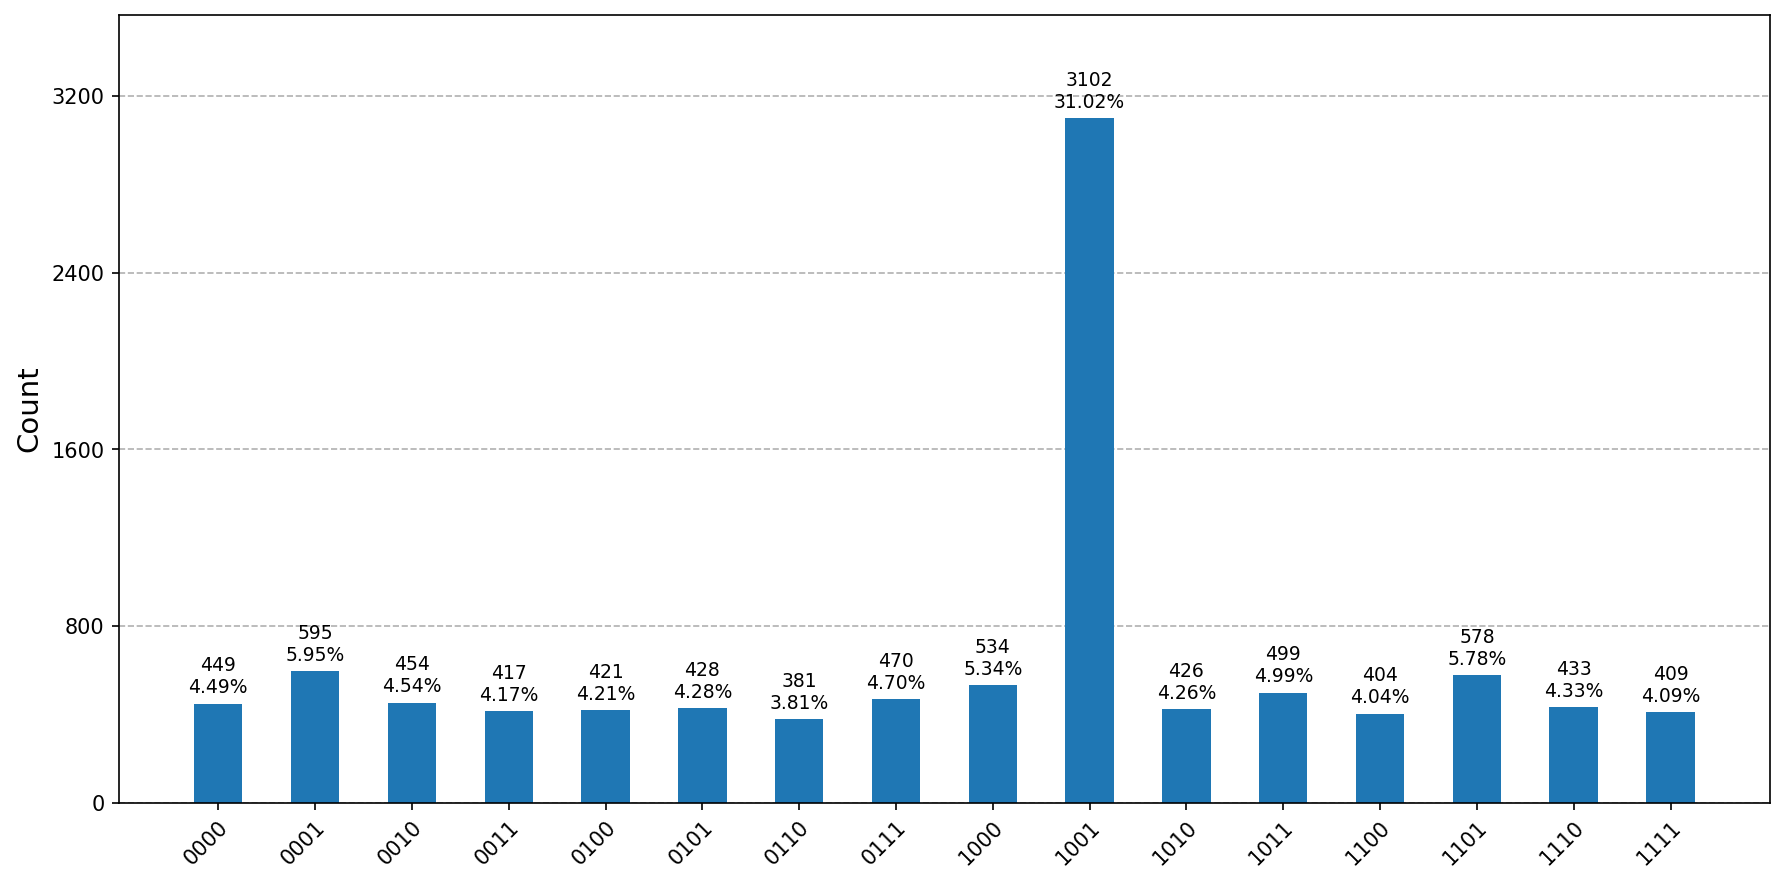
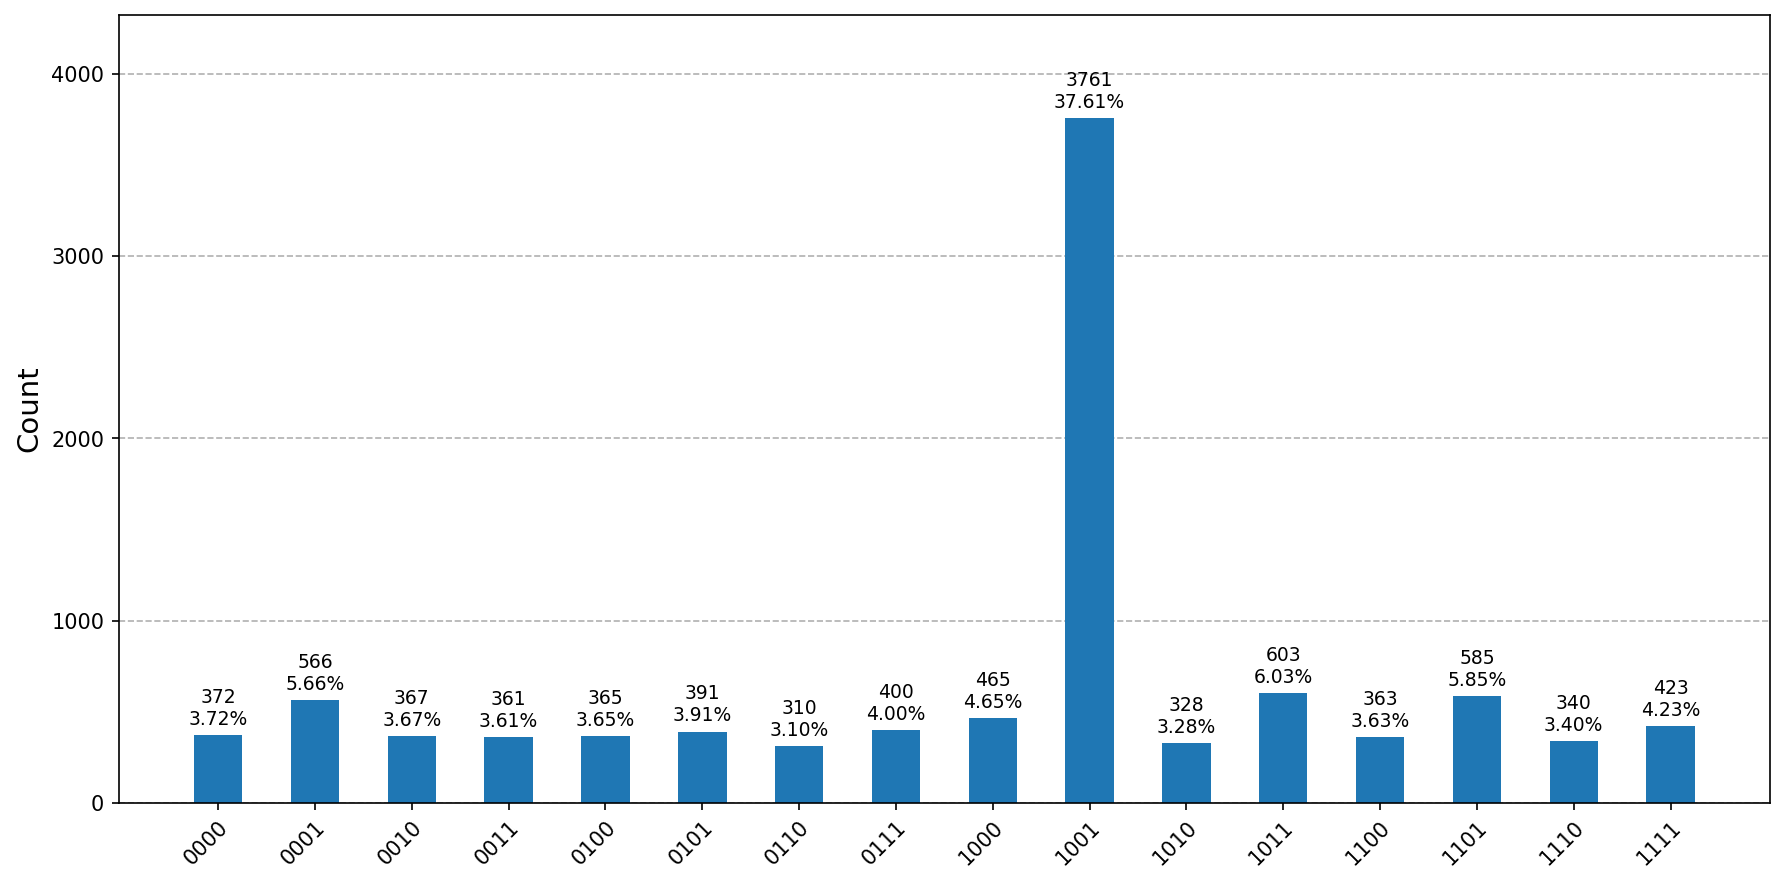
improve quantum lights out logging & find good seed & better results

diff --git a/Code/lights_out/quantum/main.py b/Code/lights_out/quantum/main.py
@@ -1,7 +1,8 @@
 import math
 import os
+import random
 import numpy as np
-from qiskit import ClassicalRegister, QuantumCircuit, QuantumRegister, transpile
+from qiskit import ClassicalRegister, QuantumCircuit, QuantumRegister
 from qiskit.primitives import StatevectorSampler
 import matplotlib.pyplot as plt
 from qiskit.visualization import plot_histogram
@@ -17,6 +18,59 @@ from qiskit.transpiler.passes import (
 )
 from qiskit.circuit.library import XGate
 from dotenv import load_dotenv
+
+
+def find_optimal_transpiler_seed(
+    qc,
+    backend,
+    optimization_level=3,
+    num_trials=30,
+    seed_space=10_000,
+    verbose=True,
+):
+    assert backend is not None
+    assert qc is not None
+    assert 0 <= optimization_level <= 3
+    assert num_trials >= 1
+    assert seed_space >= 2
+
+    rng = random.Random()
+    seeds = rng.sample(range(seed_space), k=min(num_trials, seed_space))
+
+    best_seed = None
+    best_metrics = None
+    best_score = None
+
+    tried_metrics = []
+
+    for idx, seed in enumerate(seeds, start=1):
+        pm = generate_preset_pass_manager(
+            optimization_level=optimization_level,
+            backend=backend,
+            seed_transpiler=seed,
+        )
+        transpiled = pm.run(qc)
+
+        m = {"seed": seed, "depth": transpiled.depth(), "size": transpiled.size()}
+        tried_metrics.append(m)
+
+        s = (m["depth"], m["size"])
+        if best_score is None or s < best_score:
+            best_score = s
+            best_seed = seed
+            best_metrics = {"depth": m["depth"], "size": m["size"]}
+
+            if verbose:
+                print(
+                    f"[seed search] new best @ trial {idx}/{len(seeds)}: "
+                    f"seed={best_seed}, depth={best_metrics['depth']}, size={best_metrics['size']}"
+                )
+        elif verbose and (idx == 1 or idx % 10 == 0 or idx == len(seeds)):
+            print(
+                f"[seed search] trial {idx}/{len(seeds)} done; best depth={best_metrics['depth']} size={best_metrics['size']}"
+            )
+
+    return best_seed
 
 
 def init_ibm_credentials():
@@ -67,7 +121,14 @@ def mcx(qc, control_qubits, target_qubits, anncilla_qubits):
     qc.rccx(control_qubits[0], control_qubits[1], anncilla_qubits[i])
 
 
-def add_oracle(qc, var_qubits, temp_qubits, output_qubit, conditions, ancilla_qubits):
+def add_oracle(
+    qc,
+    var_qubits,
+    temp_qubits,
+    output_qubit,
+    conditions,
+    ancilla_qubits,
+):
     layers = {}
     for vars, temp in conditions:
         for var in vars:
@@ -84,7 +145,11 @@ def add_oracle(qc, var_qubits, temp_qubits, output_qubit, conditions, ancilla_qu
         for var, temp in layers[offset]:
             qc.cx(var_qubits[var], temp_qubits[temp])
 
-    mcx(qc, temp_qubits, output_qubit, ancilla_qubits)
+    # Use mcx synthesis if ancilla bits are available
+    if ancilla_qubits:
+        mcx(qc, temp_qubits, output_qubit, ancilla_qubits)
+    else:
+        qc.mcx(temp_qubits, output_qubit)
 
     # Uncompute
     for offset in sorted_offsets[::-1]:
@@ -102,21 +167,27 @@ def add_grover_diffusion(qc, var_qubits):
     qc.h(var_qubits)
 
 
-def create_lights_out_circuit(size, initial_state, num_iterations=3):
+def create_lights_out_circuit(
+    size, initial_state, num_iterations=3, synthesize_mcx=True
+):
     n = size * size
 
     var_qubits = QuantumRegister(n, name="v")
     temp_qubits = QuantumRegister(n, name="t")
-
-    # Required for mcx
-    ancilla_qubits = QuantumRegister(n - 2, name="anc")
 
     output_qubit = QuantumRegister(1, name="out")
     cbits = ClassicalRegister(n, name="cbits")
 
     conditions = generate_conditions(size)
 
-    qc = QuantumCircuit(var_qubits, temp_qubits, ancilla_qubits, output_qubit, cbits)
+    if synthesize_mcx:
+        ancilla_qubits = QuantumRegister(n - 2, name="anc")
+        qc = QuantumCircuit(
+            var_qubits, temp_qubits, ancilla_qubits, output_qubit, cbits
+        )
+    else:
+        ancilla_qubits = None
+        qc = QuantumCircuit(var_qubits, temp_qubits, output_qubit, cbits)
 
     # Set initial state based on which lights are off (i.e. 0)
     # Additionally, reverse the bits
@@ -132,7 +203,12 @@ def create_lights_out_circuit(size, initial_state, num_iterations=3):
     # Grover's algorithmn
     for _ in range(num_iterations):
         add_oracle(
-            qc, var_qubits, temp_qubits, output_qubit, conditions, ancilla_qubits
+            qc,
+            var_qubits,
+            temp_qubits,
+            output_qubit[0],
+            conditions,
+            ancilla_qubits,
         )
         add_grover_diffusion(qc, var_qubits)
 
@@ -141,7 +217,7 @@ def create_lights_out_circuit(size, initial_state, num_iterations=3):
     return qc, var_qubits, cbits
 
 
-def create_circuit_from_matrix(initial_state_matrix):
+def create_circuit_from_matrix(initial_state_matrix, synthesize_mcx=True):
     state_array = np.array(initial_state_matrix)
 
     size = state_array.shape[0]
@@ -166,7 +242,7 @@ def create_circuit_from_matrix(initial_state_matrix):
     num_iterations = math.floor(math.pi / 4 * math.sqrt(2 ** (size**2) / num_solutions))
 
     qc, var_qubits, cbits = create_lights_out_circuit(
-        size, initial_state, num_iterations
+        size, initial_state, num_iterations, synthesize_mcx=synthesize_mcx
     )
 
     total_qubits = qc.num_qubits
@@ -176,6 +252,7 @@ def create_circuit_from_matrix(initial_state_matrix):
     print(f"Total qubits required: {total_qubits}")
     print(f"Total gates in circuit: {num_gates}")
     print(f"Grover iterations: {num_iterations}")
+    print(f"Depth of circuit: {qc.depth()}")
 
     return qc, var_qubits, cbits, size
 
@@ -188,11 +265,15 @@ def run_on_perfect_simulator(qc, shots=10_000):
     return counts
 
 
-def run_on_ibm_simulator(qc, shots=10_000):
+def run_on_ibm_simulator(qc, shots=10_000, seed_transpiler=None):
     backend = FakeMarrakesh()
 
-    transpiled = transpile(qc, backend=backend, optimization_level=3)
-    print("Transpiled")
+    pm = generate_preset_pass_manager(
+        optimization_level=3, backend=backend, seed_transpiler=seed_transpiler
+    )
+    transpiled = pm.run(qc)
+    print(f"Total gates in Fake IBM circuit: {transpiled.size()}")
+    print(f"Depth of Fake IBM circuit: {transpiled.depth()}")
     job = backend.run(transpiled, shots=shots)
     result = job.result()
     counts = result.get_counts()
@@ -200,7 +281,7 @@ def run_on_ibm_simulator(qc, shots=10_000):
     return counts
 
 
-def run_on_ibm_hardware(qc, shots=5_000, min_qubits=None):
+def run_on_ibm_hardware(qc, shots=5_000, min_qubits=None, seed_transpiler=None):
     service = QiskitRuntimeService()
 
     # backend = service.least_busy(
@@ -208,7 +289,9 @@ def run_on_ibm_hardware(qc, shots=5_000, min_qubits=None):
     # )
     backend = service.backend("ibm_marrakesh")
     print(f"Will run on {backend.name}")
-    pm = generate_preset_pass_manager(optimization_level=3, backend=backend)
+    pm = generate_preset_pass_manager(
+        optimization_level=3, backend=backend, seed_transpiler=seed_transpiler
+    )
     isa_circuit = pm.run(qc)
 
     target = backend.target
@@ -232,8 +315,8 @@ def run_on_ibm_hardware(qc, shots=5_000, min_qubits=None):
     # Big circuits might take too long to be drawn/saved
     isa_circuit.draw(output="mpl", idle_wires=False).savefig("ibm_circuit")
 
-    num_gates = isa_circuit.size()
-    print(f"Total gates in IBM circuit: {num_gates}")
+    print(f"Total gates in IBM circuit: {isa_circuit.size()}")
+    print(f"Depth of IBM circuit: {isa_circuit.depth()}")
 
     sampler = Sampler(backend)
     sampler.options.default_shots = shots
@@ -317,12 +400,24 @@ initial_state_matrix = [
 ]
 # Solution: 10 01
 
-qc, var_qubits, cbits, size = create_circuit_from_matrix(initial_state_matrix)
+qc, var_qubits, cbits, size = create_circuit_from_matrix(
+    initial_state_matrix, synthesize_mcx=True
+)
 
 qc.draw("mpl").savefig("circuit")
 
-# counts = run_on_ibm_simulator(qc, shots=10_000)
-# counts = run_on_ibm_hardware(qc, shots=100_000)
+# counts = run_on_ibm_simulator(qc, shots=10_000, seed_transpiler=8487914)
+# counts = run_on_ibm_hardware(qc, shots=100_000, seed_transpiler=6177579)
 counts = run_on_perfect_simulator(qc, shots=100_000)
 
 plot_top_results(counts, top_n=20, filename="plot")
+
+# print(find_optimal_transpiler_seed(qc, FakeMarrakesh(), num_trials=10_000, seed_space=10_000_000))
+# print(
+#     find_optimal_transpiler_seed(
+#         qc,
+#         QiskitRuntimeService().backend("ibm_marrakesh"),
+#         num_trials=10_000,
+#         seed_space=10_000_000,
+#     )
+# )
